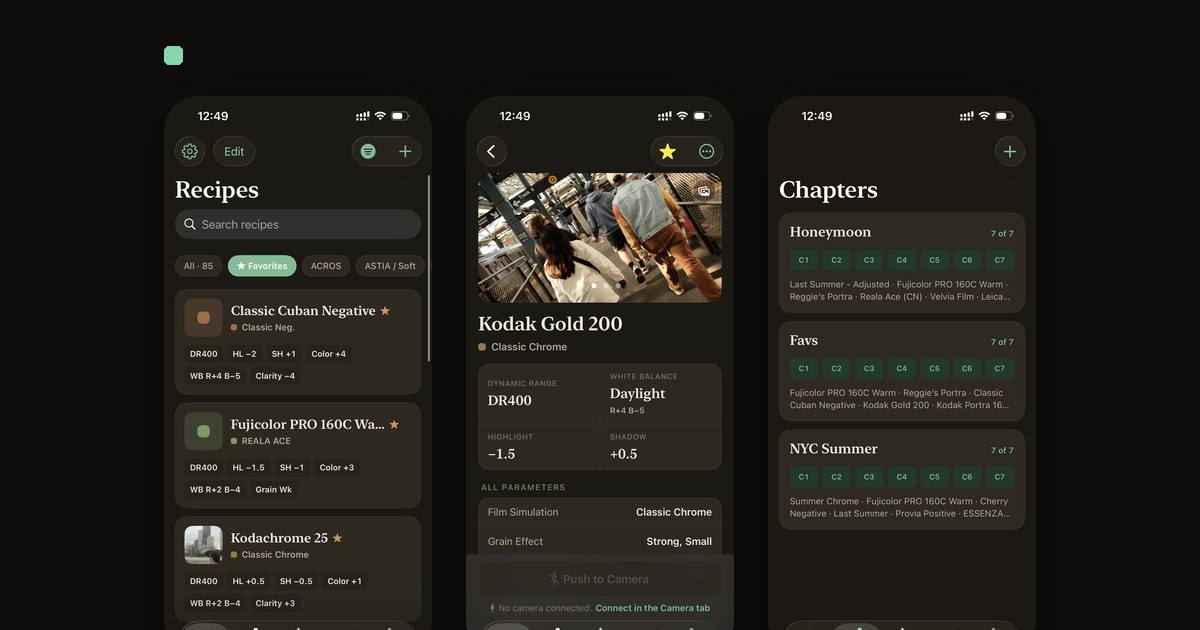
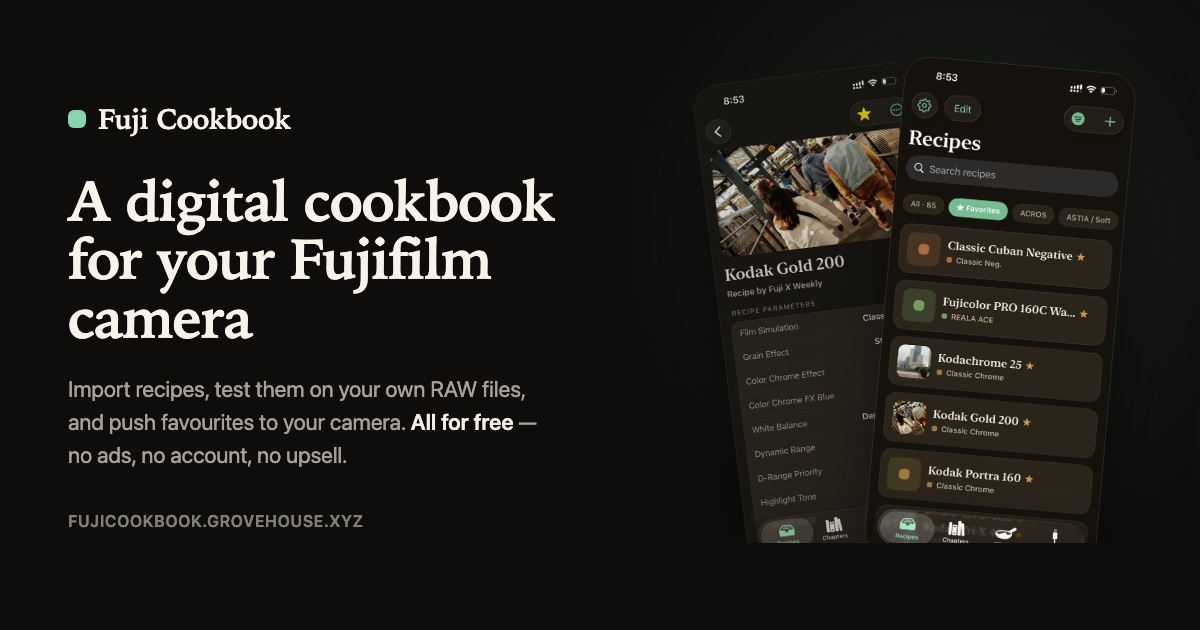
Redesign the link-preview (OG/Twitter) share card
Replaces the plain three-screens image with a card matching the
site's own design language: wordmark, headline, tagline, and two
overlapping device screens (recipe list + Kodak Gold 200 detail).

diff --git a/index.html b/index.html
@@ -28,14 +28,14 @@
 <meta property="og:image:type" content="image/png">
 <meta property="og:image:width" content="1200">
 <meta property="og:image:height" content="630">
-<meta property="og:image:alt" content="Three iPhone screens showing the Fuji Cookbook recipe list, recipe detail, and chapters.">
+<meta property="og:image:alt" content="Fuji Cookbook wordmark and headline beside two iPhone screens showing the recipe list and a Kodak Gold 200 recipe detail.">
 
 <!-- Twitter / X -->
 <meta name="twitter:card" content="summary_large_image">
 <meta name="twitter:title" content="Fuji Cookbook — Free Fujifilm recipe manager">
 <meta name="twitter:description" content="Import recipes from anywhere, test them on your own RAW files, and push favourites straight to your camera. All for free — no ads, no account, no upsell. Coming soon.">
 <meta name="twitter:image" content="https://fujicookbook.grovehouse.xyz/img/og.png">
-<meta name="twitter:image:alt" content="Three iPhone screens showing the Fuji Cookbook recipe list, recipe detail, and chapters.">
+<meta name="twitter:image:alt" content="Fuji Cookbook wordmark and headline beside two iPhone screens showing the recipe list and a Kodak Gold 200 recipe detail.">
 
 <!-- Icons -->
 <!-- Relative on purpose: works at the domain root and in a subfolder alike. -->
